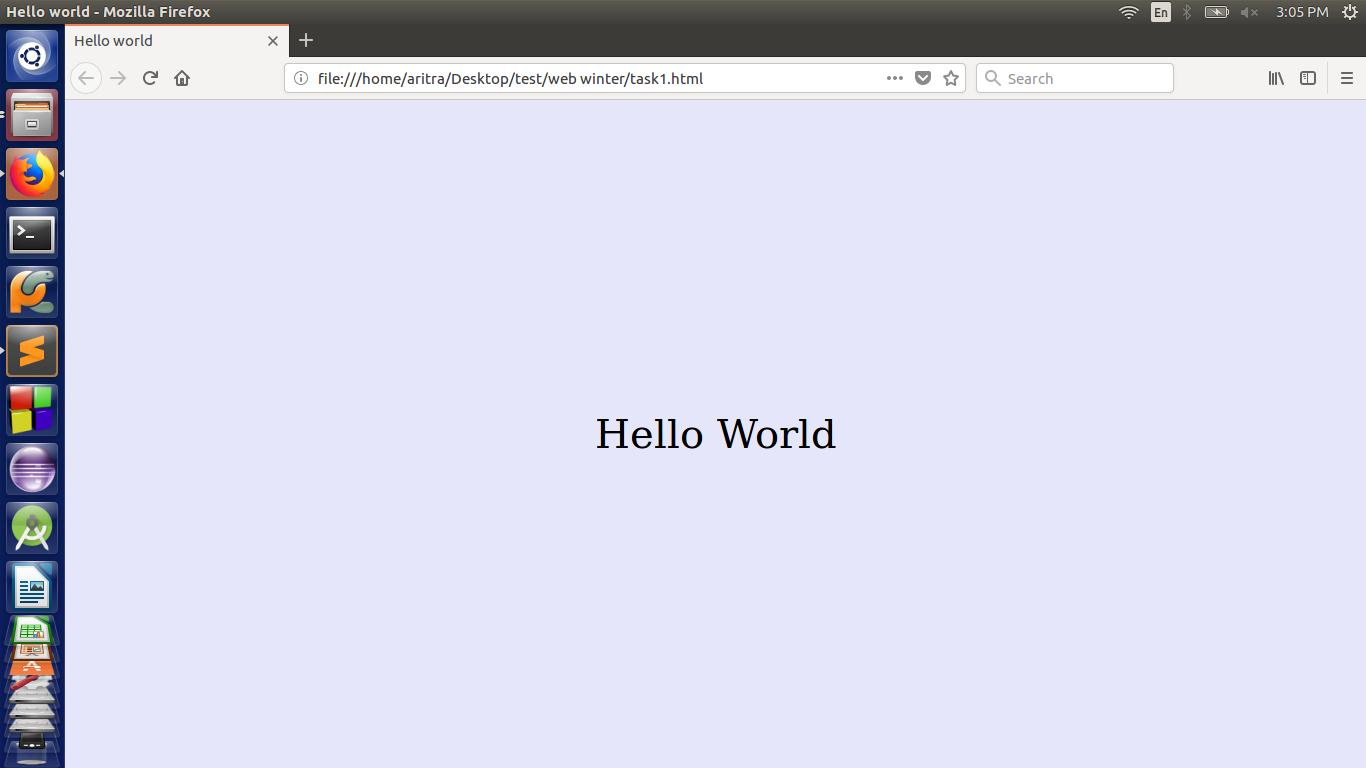
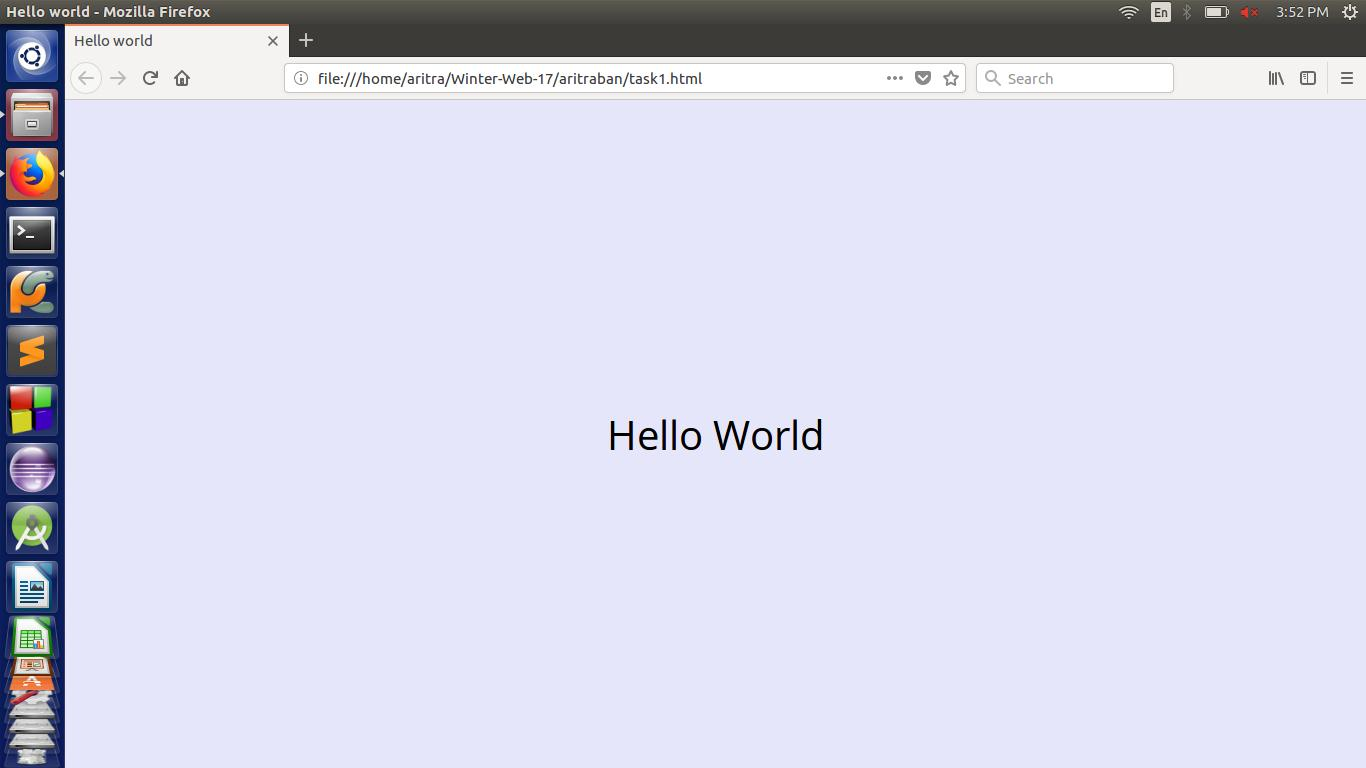
first task(corrected font)

diff --git a/aritraban/task1.html b/aritraban/task1.html
@@ -1,5 +1,6 @@
 <html>
 	<head>
+		<link href='https://fonts.googleapis.com/css?family=Open+Sans' rel='stylesheet' type='text/css'> 
 		<link href="style_task1.css" type="text/css" rel="stylesheet"> 
 		<title>
 		Hello world	

diff --git a/aritraban/style_task1.css b/aritraban/style_task1.css
@@ -8,7 +8,7 @@ body
 	top: 50%;
 	left: 50%;
 	transform: translateX(-50%) translateY(-50%);
-	font-family: "open sans light";
+	font-family: 'Open Sans';
 	font-size: 40;
 	font-weight: lighter;
 }
